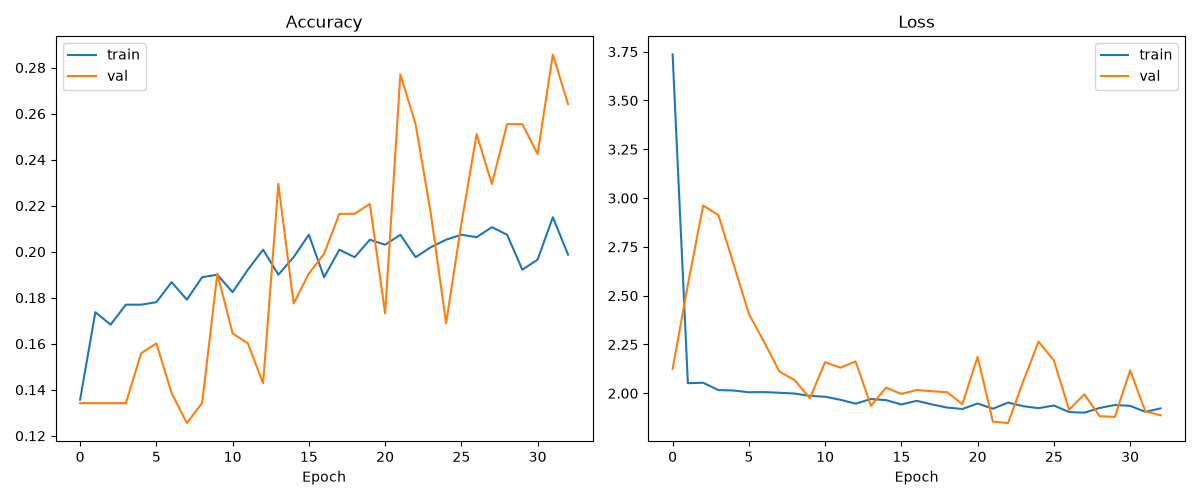
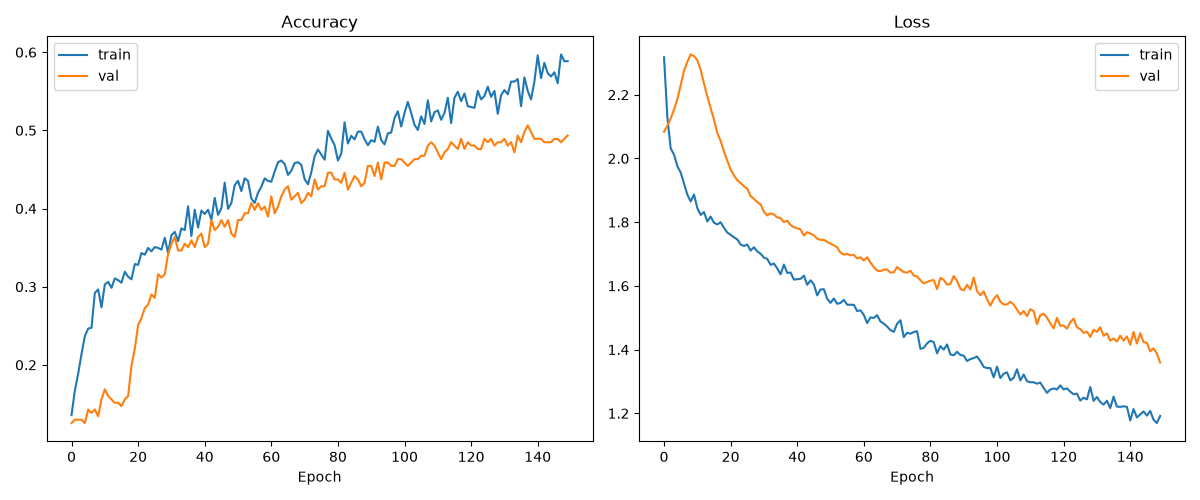
fix: correct per-coefficient normalization and reduce dense layer size to fix unstable training

diff --git a/src/prepare_dataset.py b/src/prepare_dataset.py
@@ -1,7 +1,8 @@
 """
-Phase 4: Prepare dataset for CNN training.
+Phase 4 (fixed): Prepare dataset for CNN training.
 Loads MFCC features + labels, encodes labels, splits into train/val/test,
-reshapes features to (samples, n_mfcc, time_steps, 1) for CNN input.
+normalizes PER MFCC COEFFICIENT using train-set statistics only (fixes
+unstable training caused by mismatched feature scales), reshapes for CNN.
 """
 
 import numpy as np
@@ -16,14 +17,8 @@ OUT_DIR = "data/processed"
 
 
 def load_and_prepare():
-    X = np.load(X_PATH)
+    X = np.load(X_PATH)   # shape: (samples, n_mfcc, time_steps)
     y = np.load(Y_PATH)
-
-    # Normalize features (helps CNN training converge faster)
-    X = (X - np.mean(X)) / np.std(X)
-
-    # Add channel dimension: (samples, n_mfcc, time_steps) -> (samples, n_mfcc, time_steps, 1)
-    X = X[..., np.newaxis]
 
     # Encode string labels ("happy", "sad", ...) into integers, then one-hot
     label_encoder = LabelEncoder()
@@ -32,21 +27,33 @@ def load_and_prepare():
 
     print("Classes (in order of encoding):", list(label_encoder.classes_))
 
-    # First split: train+val vs test (80/20)
+    # Split RAW (unnormalized) features first, so we compute normalization
+    # stats only from the training set (avoids leaking test/val info)
     X_train_val, X_test, y_train_val, y_test = train_test_split(
         X, y_categorical, test_size=0.2, random_state=42, stratify=y_categorical
     )
-
-    # Second split: train vs val (80/20 of the remaining 80%, i.e. 64/16/20 overall)
     X_train, X_val, y_train, y_val = train_test_split(
         X_train_val, y_train_val, test_size=0.2, random_state=42, stratify=y_train_val
     )
+
+    # Per-coefficient normalization: compute mean/std for each of the 40
+    # MFCC coefficients across the training set (axis 0=samples, 2=time)
+    mean = X_train.mean(axis=(0, 2), keepdims=True)  # shape (1, 40, 1)
+    std = X_train.std(axis=(0, 2), keepdims=True) + 1e-8
+
+    X_train = (X_train - mean) / std
+    X_val = (X_val - mean) / std
+    X_test = (X_test - mean) / std
+
+    # Add channel dimension: (samples, n_mfcc, time_steps) -> (..., 1)
+    X_train = X_train[..., np.newaxis]
+    X_val = X_val[..., np.newaxis]
+    X_test = X_test[..., np.newaxis]
 
     print(f"\nTrain shape: {X_train.shape}, {y_train.shape}")
     print(f"Val shape:   {X_val.shape}, {y_val.shape}")
     print(f"Test shape:  {X_test.shape}, {y_test.shape}")
 
-    # Save everything for the training phase
     np.save(f"{OUT_DIR}/X_train.npy", X_train)
     np.save(f"{OUT_DIR}/X_val.npy", X_val)
     np.save(f"{OUT_DIR}/X_test.npy", X_test)
@@ -55,7 +62,11 @@ def load_and_prepare():
     np.save(f"{OUT_DIR}/y_test.npy", y_test)
     np.save(f"{OUT_DIR}/label_classes.npy", label_encoder.classes_)
 
-    print("\nSaved train/val/test splits to data/processed/")
+    # Save normalization stats too — needed later for inference on new audio
+    np.save(f"{OUT_DIR}/mfcc_mean.npy", mean)
+    np.save(f"{OUT_DIR}/mfcc_std.npy", std)
+
+    print("\nSaved train/val/test splits and normalization stats to data/processed/")
 
 
 if __name__ == "__main__":

diff --git a/src/train.py b/src/train.py
@@ -1,10 +1,14 @@
 """
-Phase 6: Train the CNN on MFCC features to classify emotions.
+Phase 6 (fixed): Train the CNN on MFCC features to classify emotions.
+Uses a lower learning rate + ReduceLROnPlateau to fix the training
+instability seen with the default Adam learning rate (loss was stuck
+near ln(8), i.e. random-guessing level, and val_loss was spiking).
 """
 
 import numpy as np
 import matplotlib.pyplot as plt
-from tensorflow.keras.callbacks import EarlyStopping, ModelCheckpoint
+from tensorflow.keras.callbacks import EarlyStopping, ModelCheckpoint, ReduceLROnPlateau
+from tensorflow.keras.optimizers import Adam
 
 from model import build_cnn
 
@@ -12,8 +16,9 @@ DATA_DIR = "data/processed"
 MODEL_SAVE_PATH = "models/emotion_cnn.h5"
 HISTORY_PLOT_PATH = "models/training_history.png"
 
-EPOCHS = 60
+EPOCHS = 150
 BATCH_SIZE = 32
+LEARNING_RATE = 1e-4
 
 
 def load_data():
@@ -47,15 +52,21 @@ def plot_history(history):
 def train():
     X_train, X_val, y_train, y_val = load_data()
 
-    input_shape = X_train.shape[1:]      # (40, 174, 1)
-    num_classes = y_train.shape[1]        # 8
+    input_shape = X_train.shape[1:]
+    num_classes = y_train.shape[1]
 
     model = build_cnn(input_shape, num_classes)
+    model.compile(
+        optimizer=Adam(learning_rate=LEARNING_RATE),
+        loss="categorical_crossentropy",
+        metrics=["accuracy"],
+    )
     model.summary()
 
     callbacks = [
-        EarlyStopping(monitor="val_loss", patience=10, restore_best_weights=True),
+        EarlyStopping(monitor="val_loss", patience=25, restore_best_weights=True),
         ModelCheckpoint(MODEL_SAVE_PATH, monitor="val_accuracy", save_best_only=True),
+        ReduceLROnPlateau(monitor="val_loss", factor=0.5, patience=8, min_lr=1e-6),
     ]
 
     history = model.fit(

diff --git a/src/model.py b/src/model.py
@@ -1,13 +1,17 @@
 """
-Phase 5: CNN architecture for speech emotion recognition.
+Phase 5 (fixed): CNN architecture for speech emotion recognition.
 Input: MFCC "images" of shape (n_mfcc, time_steps, 1)
 Output: probability distribution over emotion classes
+
+Uses GlobalAveragePooling2D instead of Flatten to drastically cut the
+parameter count in the dense layers -- Flatten was producing a 1.7M-param
+Dense layer for only ~900 training samples, which caused unstable training.
 """
 
 from tensorflow.keras.models import Sequential
 from tensorflow.keras.layers import (
     Conv2D, MaxPooling2D, BatchNormalization,
-    Dropout, Flatten, Dense
+    Dropout, GlobalAveragePooling2D, Dense
 )
 
 
@@ -28,7 +32,7 @@ def build_cnn(input_shape, num_classes):
         MaxPooling2D(pool_size=(2, 2)),
         Dropout(0.3),
 
-        Flatten(),
+        GlobalAveragePooling2D(),
         Dense(128, activation="relu"),
         Dropout(0.4),
         Dense(num_classes, activation="softmax"),
@@ -44,6 +48,5 @@ def build_cnn(input_shape, num_classes):
 
 
 if __name__ == "__main__":
-    # Quick sanity check: build the model and print its summary
     model = build_cnn(input_shape=(40, 174, 1), num_classes=8)
     model.summary()